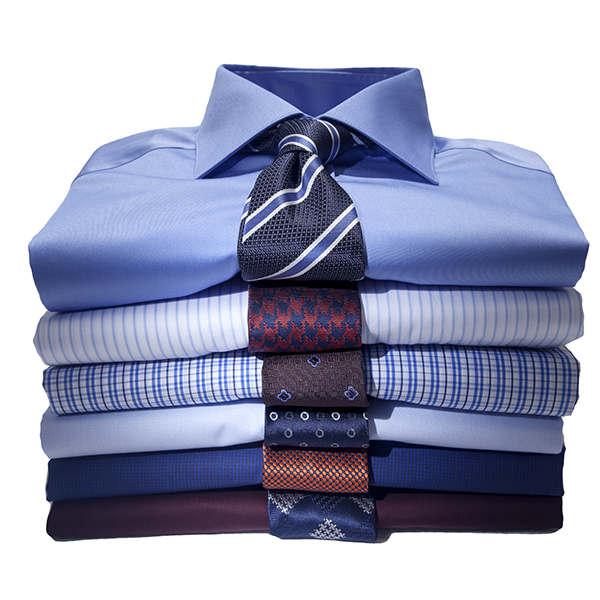
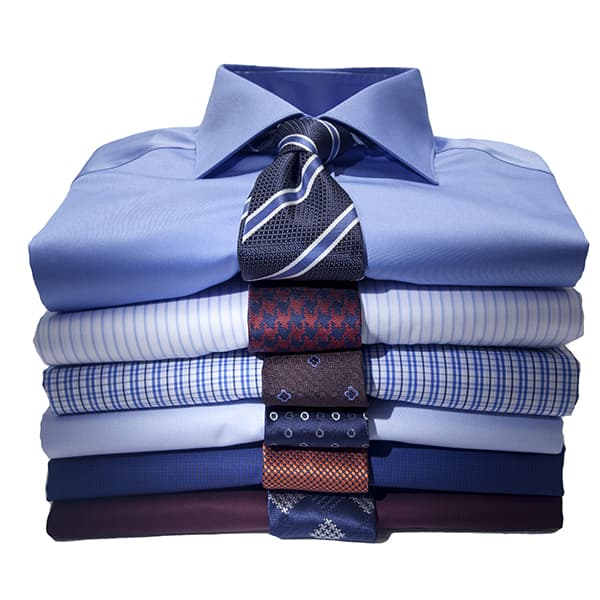
optimized images

diff --git a/index.html b/index.html
@@ -185,7 +185,7 @@
             <div class="col-lg-4 col-lg testimonials">
               <img
                 class="testimonials-image"
-                src="images/georgem.png"
+                src="images/georgem.jpg"
                 alt="George M"
               />
               <p class="testimonials-name">Γιώργος Μ.</p>
@@ -250,7 +250,7 @@
           <div class="card-body">
             <img
               class="offer-image"
-              src="images/bedlinen.jpeg"
+              src="images/bedlinen.jpg"
               alt="home items"
             />
             <p>2 σεντόνια, 2 μαξιλαροθήκες, 1 παπλωματοθήκη</p>
@@ -269,7 +269,7 @@
           <div class="card-body">
             <img
               class="offer-image"
-              src="images/carsseat.jpeg"
+              src="images/carsseat.jpg"
               alt="car seat"
             />
             <p>Εξαφανίζουμε κάθε λεκέ από το παιδικό κάθισμα αυτοκινήτου</p>
